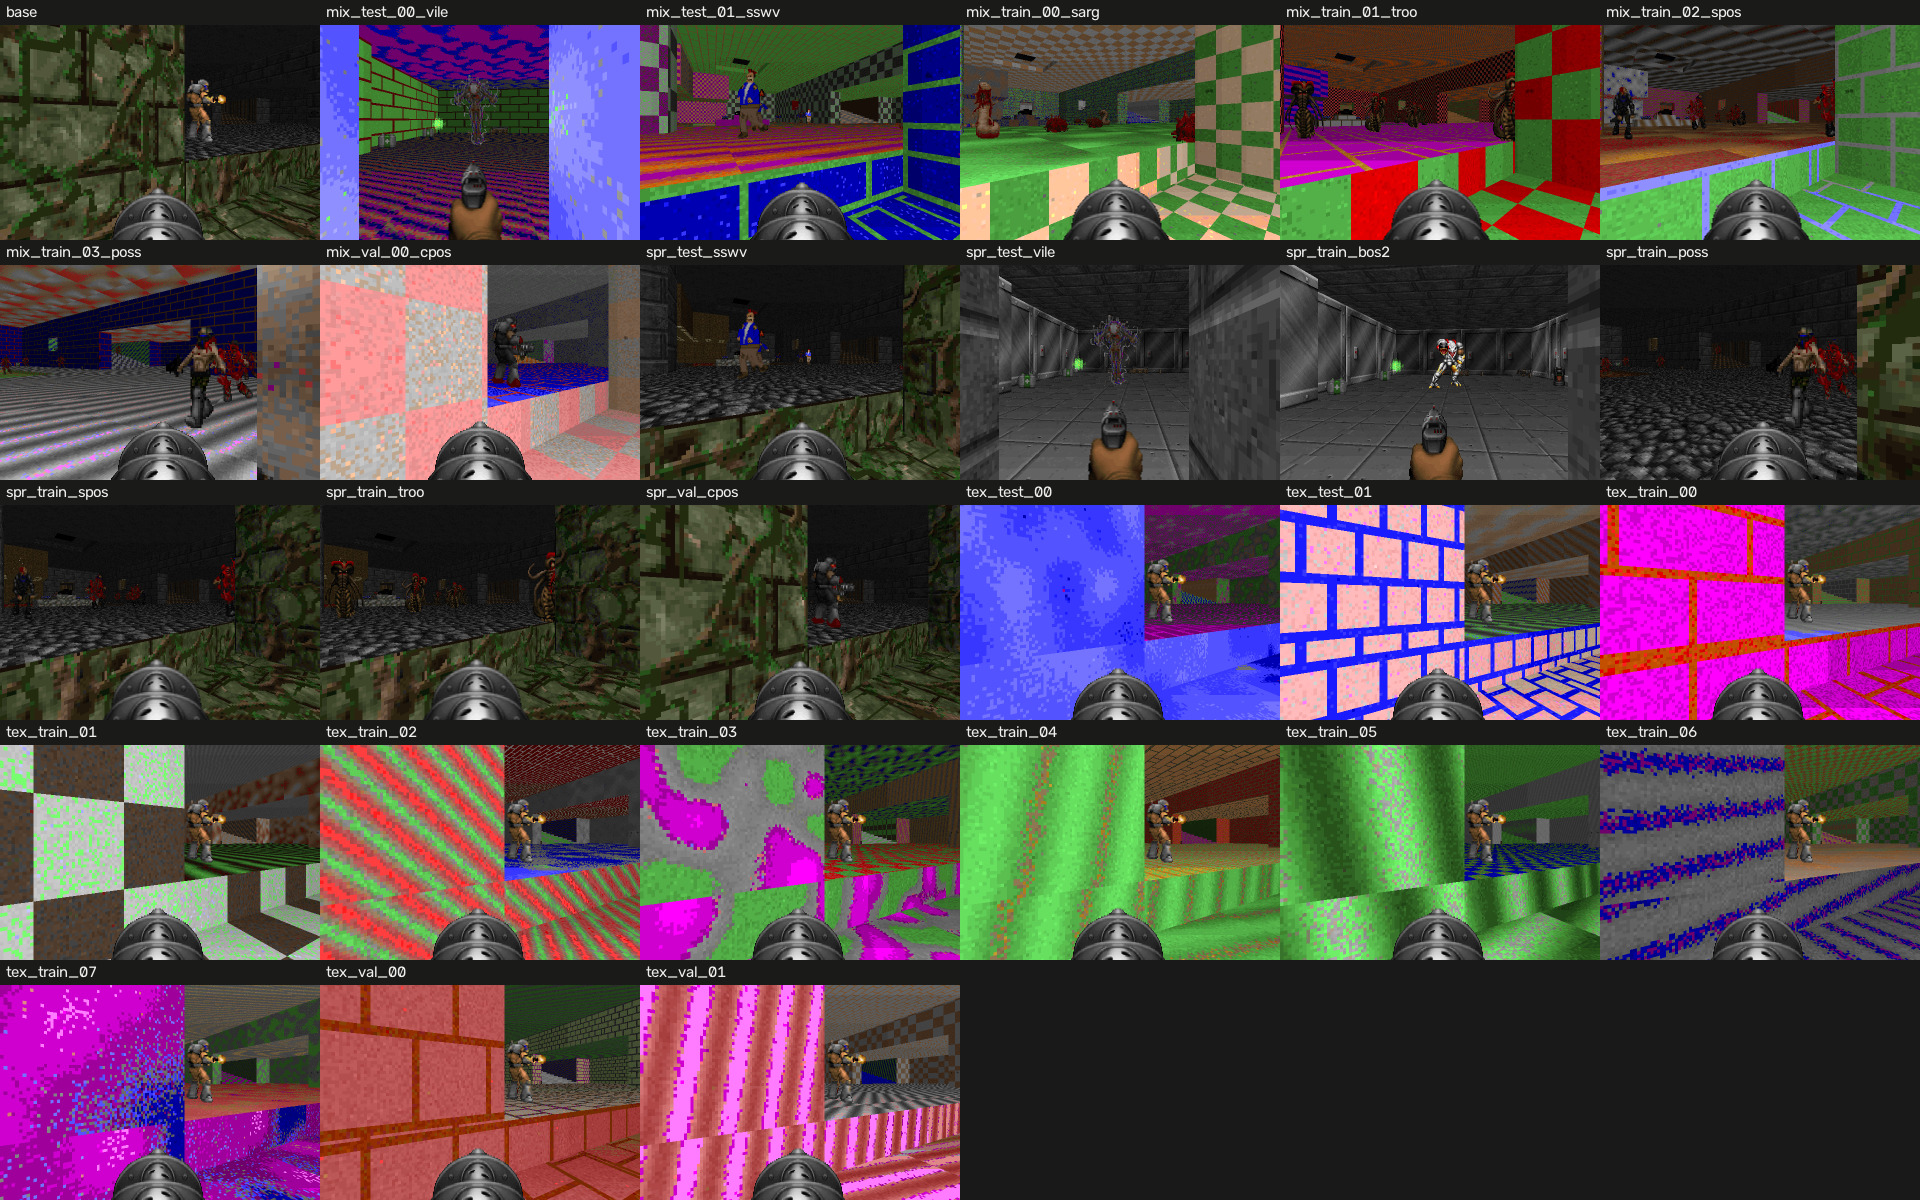
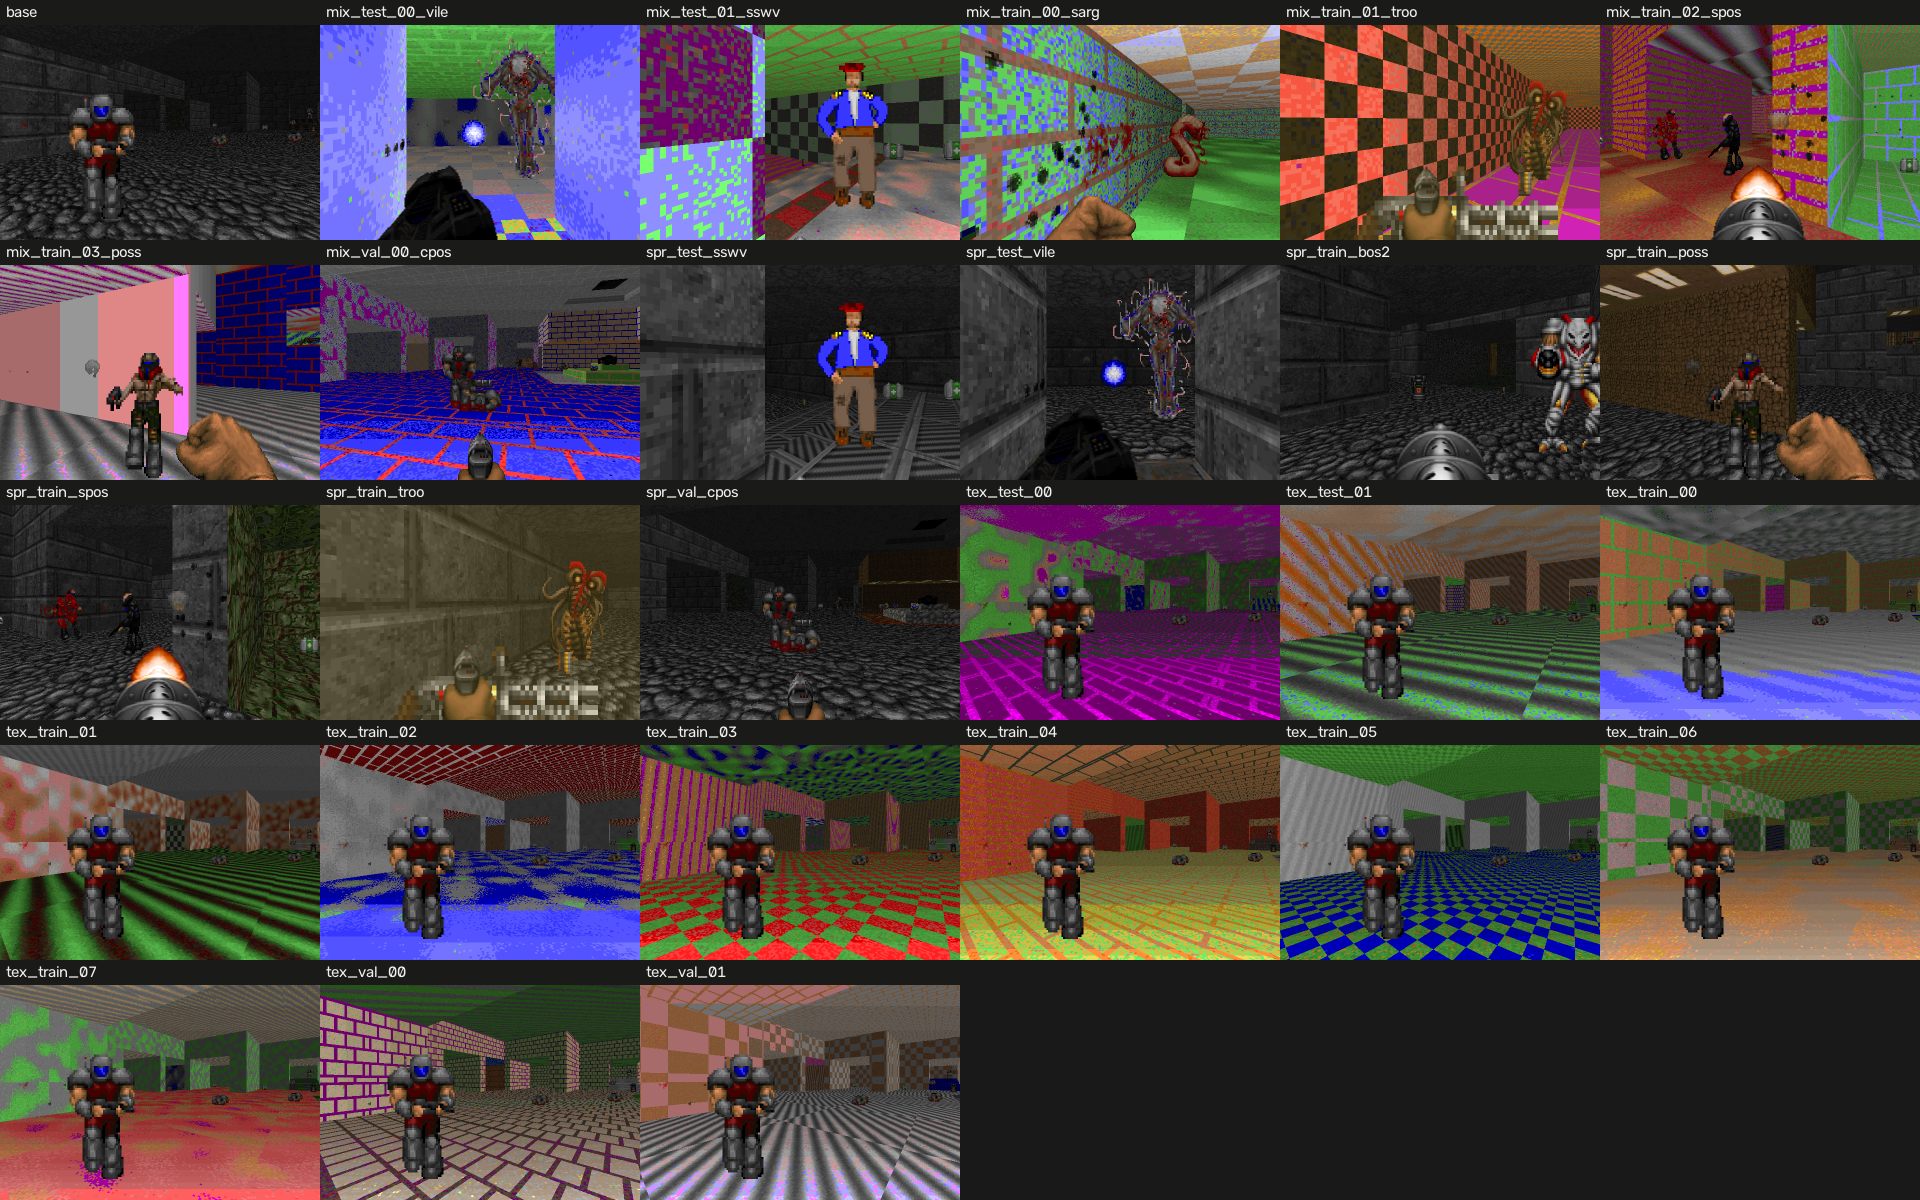
docs(E3): teacher confirmed on untouched seeds (+4.58 [+3.10, +5.88] vs E1), label audit, variants checked again

diff --git a/scripts/dm/dm_dataset_audit.py b/scripts/dm/dm_dataset_audit.py
@@ -1,0 +1,51 @@
+"""Label sanity of recorded teacher matches: fire without a visible bot, steps the teacher stands stuck,
+matches without frags, how often a label is played as is, turn labels with and without a bot in sight.
+
+    python scripts/dm/dm_dataset_audit.py data/dm/r0 data/dm/r1
+"""
+import glob
+import json
+import os
+import sys
+
+import numpy as np
+
+from doomagent.dm.actions import TURN_DEG
+from doomagent.dm.config import MODES
+
+STUCK_WINDOW = 16  # steps (1.8 s)
+STUCK_MOVE = 32.0  # map units over the window
+
+if __name__ == '__main__':
+    sys.stdout.reconfigure(encoding='utf-8')
+    files = sorted(f for d in sys.argv[1:] for f in glob.glob(os.path.join(d, 'ep_*.npz')))
+    n = fire = fire_nobot = stuck = played = 0
+    frags, deaths, turn_bot, turn_nobot, fire_by_mode = [], [], [], [], np.zeros(len(MODES))
+    steps_by_mode = np.zeros(len(MODES))
+    for f in files:
+        z = np.load(f)
+        a, ex, bot, pose, modes = z['actions'], z['executed'], z['bot_visible'], z['pose'], z['modes']
+        T = len(a)
+        n += T
+        fire += a[:, 2].sum()
+        fire_nobot += (a[:, 2].astype(bool) & ~bot).sum()
+        played += (a == ex).all(1).sum()
+        step = np.hypot(np.diff(pose[:, 0]), np.diff(pose[:, 1]))
+        step[step > 60] = 0.0  # a respawn
+        win = np.convolve(step, np.ones(STUCK_WINDOW), 'valid')
+        stuck += int((win < STUCK_MOVE).sum())
+        frags.append(z['counters'][-1, 0])
+        deaths.append(z['counters'][-1, 1])
+        turn_bot += [abs(TURN_DEG[t]) for t in a[bot, 1]]
+        turn_nobot += [abs(TURN_DEG[t]) for t in a[~bot, 1]]
+        np.add.at(fire_by_mode, modes, a[:, 2])
+        np.add.at(steps_by_mode, modes, 1)
+    frags = np.array(frags)
+    out = dict(matches=len(files), steps=n, fire_share=fire / n, fire_without_visible_bot=fire_nobot / max(fire, 1),
+               label_played_as_is=played / n, stuck_window_share=stuck / n,
+               frags=dict(mean=float(frags.mean()), min=float(frags.min()), p10=float(np.percentile(frags, 10)),
+                          zero_matches=int((frags <= 0).sum())),
+               deaths_mean=float(np.mean(deaths)),
+               turn_abs_mean=dict(bot_visible=float(np.mean(turn_bot)), no_bot=float(np.mean(turn_nobot))),
+               fire_share_by_mode={m: float(fire_by_mode[i] / max(steps_by_mode[i], 1)) for i, m in enumerate(MODES)})
+    print(json.dumps(out, indent=1))

diff --git a/scripts/dm/dm_teacher_diag.py b/scripts/dm/dm_teacher_diag.py
@@ -15,7 +15,7 @@ from dataclasses import fields, replace
 
 import numpy as np
 
-from doomagent.dm.config import DM, FRESH_SEEDS, MODES, VAL_SEEDS
+from doomagent.dm.config import CONFIRM_SEEDS, DM, FRESH_SEEDS, MODES, VAL_SEEDS
 from doomagent.dm.teacher import visible_bots
 from doomagent.dm.weapons import WEAPONS
 
@@ -116,7 +116,7 @@ def with_overrides(cfg, items):
 
 if __name__ == '__main__':  # workers re-import this file
     ap = argparse.ArgumentParser()
-    ap.add_argument('--seeds', choices=['val', 'fresh'], default='val')
+    ap.add_argument('--seeds', choices=['val', 'fresh', 'confirm'], default='val')
     ap.add_argument('--matches', type=int, default=20)
     ap.add_argument('--workers', type=int, default=4)
     ap.add_argument('--set', nargs='*', default=[])
@@ -124,7 +124,7 @@ if __name__ == '__main__':  # workers re-import this file
     ap.add_argument('--no-live', action='store_true', help='no frames for the dashboard')
     a = ap.parse_args()
     cfg = with_overrides(DM, a.set)
-    seeds = {'val': VAL_SEEDS, 'fresh': FRESH_SEEDS}[a.seeds][:a.matches]
+    seeds = {'val': VAL_SEEDS, 'fresh': FRESH_SEEDS, 'confirm': CONFIRM_SEEDS}[a.seeds][:a.matches]
     live = not a.no_live
     if live:
         from doomagent.dm.livetap import write_plan

diff --git a/tests/dm/test_dm_config.py b/tests/dm/test_dm_config.py
@@ -30,7 +30,7 @@ def test_map02_names_are_disjoint():
 
 def test_seed_sets_disjoint_and_new():
     new = [D.TRAIN_SEEDS, D.VARIANT_SEEDS, D.DAGGER_SEEDS, D.VAL_SEEDS, D.FRESH_SEEDS,
-           D.CHECK_SEEDS, D.PILOT_SEEDS, D.TEST_SEEDS, D.RL_SEEDS]
+           D.CHECK_SEEDS, D.PILOT_SEEDS, D.TEST_SEEDS, D.RL_SEEDS, D.CONFIRM_SEEDS]
     flat = [s for ss in new for s in ss]
     assert len(flat) == len(set(flat))
     old = set(C.TRAIN_SEEDS + C.TRAIN_SEEDS_EXTRA + C.DAGGER_SEEDS + C.VARIANT_SEEDS + C.VAL_SEEDS

diff --git a/src/doomagent/dm/config.py b/src/doomagent/dm/config.py
@@ -61,6 +61,7 @@ CHECK_SEEDS = tuple(range(37000, 37006))    # graphics variant check
 PILOT_SEEDS = tuple(range(38000, 38010))    # D2 pilot dataset
 TEST_SEEDS = tuple(range(39000, 39040))     # D7 only
 RL_SEEDS = tuple(range(40000, 41000))
+CONFIRM_SEEDS = tuple(range(42000, 42040))  # one look at the teacher after the E3 cycle tuned on FRESH_SEEDS
 
 VAL_OOD_MATCHES = 5   # per val variant
 TEST_OOD_MATCHES = 8  # per test variant

diff --git a/reports/dm/e3_variants.md b/reports/dm/e3_variants.md
@@ -1,35 +1,35 @@
 # E3: graphics variants of cig MAP02
 
-Teacher on CHECK_SEEDS (6 matches per variant). Base: frags 10.50 [8.50, 12.33], K/D 5.25. A variant is switched off below 0.7 of the base frags, or (tex, mix) with a mean network-frame difference from the base below 8 (first 20 steps of a fixed walk).
+Teacher on CHECK_SEEDS (6 matches per variant). Base: frags 14.00 [10.00, 17.67], K/D 3.65. A variant is switched off below 0.7 of the base frags, or (tex, mix) with a mean network-frame difference from the base below 8 (first 20 steps of a fixed walk).
 
 | variant | split | kind | frags [95% CI] | of base | K/D | frame diff | status |
 |---|---|---|---|---|---|---|---|
-| mix_test_00_vile | test | mix | 7.83 [5.33, 10.33] | 0.75 | 2.76 | 46.0 | ok |
-| mix_test_01_sswv | test | mix | 9.50 [7.50, 11.33] | 0.90 | 5.18 | 42.3 | ok |
-| mix_train_00_sarg | train | mix | 10.17 [8.00, 12.33] | 0.97 | 4.69 | 48.7 | ok |
-| mix_train_01_troo | train | mix | 8.67 [6.17, 11.34] | 0.83 | 4.33 | 41.5 | ok |
-| mix_train_02_spos | train | mix | 8.67 [6.83, 10.50] | 0.83 | 3.25 | 38.5 | ok |
-| mix_train_03_poss | train | mix | 9.33 [8.00, 10.83] | 0.89 | 3.73 | 34.4 | ok |
-| mix_val_00_cpos | val | mix | 9.33 [7.83, 10.67] | 0.89 | 3.50 | 47.6 | ok |
-| spr_test_sswv | test | spr | 9.50 [7.50, 11.33] | 0.90 | 5.18 | 0.1 | ok |
-| spr_test_vile | test | spr | 7.83 [5.33, 10.33] | 0.75 | 2.76 | 0.3 | ok |
-| spr_train_bos2 | train | spr | 9.67 [7.83, 11.67] | 0.92 | 4.46 | 0.2 | ok |
-| spr_train_poss | train | spr | 9.33 [8.00, 10.83] | 0.89 | 3.73 | 0.1 | ok |
-| spr_train_spos | train | spr | 8.67 [6.83, 10.50] | 0.83 | 3.25 | 0.1 | ok |
-| spr_train_troo | train | spr | 8.67 [6.17, 11.34] | 0.83 | 4.33 | 0.1 | ok |
-| spr_val_cpos | val | spr | 9.33 [7.83, 10.67] | 0.89 | 3.50 | 0.1 | ok |
-| tex_test_00 | test | tex | 10.50 [8.50, 12.33] | 1.00 | 5.25 | 59.8 | ok |
-| tex_test_01 | test | tex | 10.50 [8.50, 12.33] | 1.00 | 5.25 | 45.3 | ok |
-| tex_train_00 | train | tex | 10.50 [8.50, 12.33] | 1.00 | 5.25 | 45.7 | ok |
-| tex_train_01 | train | tex | 10.50 [8.50, 12.33] | 1.00 | 5.25 | 61.2 | ok |
-| tex_train_02 | train | tex | 10.50 [8.50, 12.33] | 1.00 | 5.25 | 51.3 | ok |
-| tex_train_03 | train | tex | 10.50 [8.50, 12.33] | 1.00 | 5.25 | 38.8 | ok |
-| tex_train_04 | train | tex | 10.50 [8.50, 12.33] | 1.00 | 5.25 | 56.6 | ok |
-| tex_train_05 | train | tex | 10.50 [8.50, 12.33] | 1.00 | 5.25 | 59.3 | ok |
-| tex_train_06 | train | tex | 10.50 [8.50, 12.33] | 1.00 | 5.25 | 53.4 | ok |
-| tex_train_07 | train | tex | 10.50 [8.50, 12.33] | 1.00 | 5.25 | 68.1 | ok |
-| tex_val_00 | val | tex | 10.50 [8.50, 12.33] | 1.00 | 5.25 | 59.4 | ok |
-| tex_val_01 | val | tex | 10.50 [8.50, 12.33] | 1.00 | 5.25 | 49.6 | ok |
+| mix_test_00_vile | test | mix | 11.17 [7.83, 14.67] | 0.80 | 3.72 | 46.0 | ok |
+| mix_test_01_sswv | test | mix | 14.17 [11.83, 16.84] | 1.01 | 3.86 | 42.3 | ok |
+| mix_train_00_sarg | train | mix | 16.17 [13.00, 19.33] | 1.15 | 5.11 | 48.7 | ok |
+| mix_train_01_troo | train | mix | 17.17 [13.66, 21.17] | 1.23 | 4.48 | 41.5 | ok |
+| mix_train_02_spos | train | mix | 14.00 [9.67, 18.83] | 1.00 | 4.20 | 38.5 | ok |
+| mix_train_03_poss | train | mix | 11.83 [9.67, 14.00] | 0.85 | 3.23 | 34.5 | ok |
+| mix_val_00_cpos | val | mix | 10.00 [7.50, 13.17] | 0.71 | 2.61 | 47.6 | ok |
+| spr_test_sswv | test | spr | 14.17 [11.83, 16.84] | 1.01 | 3.86 | 0.1 | ok |
+| spr_test_vile | test | spr | 11.17 [7.83, 14.67] | 0.80 | 3.72 | 0.3 | ok |
+| spr_train_bos2 | train | spr | 11.50 [6.83, 16.17] | 0.82 | 3.29 | 0.2 | ok |
+| spr_train_poss | train | spr | 11.83 [9.67, 14.00] | 0.85 | 3.23 | 0.1 | ok |
+| spr_train_spos | train | spr | 14.00 [9.67, 18.83] | 1.00 | 4.20 | 0.1 | ok |
+| spr_train_troo | train | spr | 17.17 [13.66, 21.17] | 1.23 | 4.48 | 0.1 | ok |
+| spr_val_cpos | val | spr | 10.00 [7.50, 13.17] | 0.71 | 2.61 | 0.1 | ok |
+| tex_test_00 | test | tex | 14.00 [10.00, 17.67] | 1.00 | 3.65 | 59.8 | ok |
+| tex_test_01 | test | tex | 14.00 [10.00, 17.67] | 1.00 | 3.65 | 45.3 | ok |
+| tex_train_00 | train | tex | 14.00 [10.00, 17.67] | 1.00 | 3.65 | 45.7 | ok |
+| tex_train_01 | train | tex | 14.00 [10.00, 17.67] | 1.00 | 3.65 | 61.2 | ok |
+| tex_train_02 | train | tex | 14.00 [10.00, 17.67] | 1.00 | 3.65 | 51.3 | ok |
+| tex_train_03 | train | tex | 14.00 [10.00, 17.67] | 1.00 | 3.65 | 38.9 | ok |
+| tex_train_04 | train | tex | 14.00 [10.00, 17.67] | 1.00 | 3.65 | 56.6 | ok |
+| tex_train_05 | train | tex | 14.00 [10.00, 17.67] | 1.00 | 3.65 | 59.3 | ok |
+| tex_train_06 | train | tex | 14.00 [10.00, 17.67] | 1.00 | 3.65 | 53.5 | ok |
+| tex_train_07 | train | tex | 14.00 [10.00, 17.67] | 1.00 | 3.65 | 68.1 | ok |
+| tex_val_00 | val | tex | 14.00 [10.00, 17.67] | 1.00 | 3.65 | 59.4 | ok |
+| tex_val_01 | val | tex | 14.00 [10.00, 17.67] | 1.00 | 3.65 | 49.6 | ok |
 
 26 of 26 variants kept.
 

diff --git a/research_log_dm.md b/research_log_dm.md
@@ -139,5 +139,6 @@
   - Данные учителем `min_vis_px=50, flick` (`reports/dm/e3_dataset.md`, `.png`): R0 150 матчей, 157 381 шаг, 11.3 ГБ, учитель 11.44 фрага за матч; R1 96 матчей на 16 train-вариантах, 100 733 шага, 7.2 ГБ, 11.36 фрага; всего 246 матчей, 258 114 шагов, 18.5 ГБ; 10 % шагов — шумовое действие.
   - Метки: **выстрел на 23.8 % шагов** (было 10.4 %), смена оружия 3.5 %; движение — вперёд 43 %, стрейфы по 22 %, стоять 7 %; поворот — «0» 24 %, ±5 и ±10 по 9 %, ±40 по 5 %. Оружие в руках: пулемёт 32 %, пистолет 27 %, плазма 12 %, двустволка 12 %, ракетница 8 %. Режимы: бой 49 %, патруль 20 %, снаряжение 15 %, погоня 12 %. `bot_visible` считает только видимых ботов.
   - Панель (`python -m doomagent.dm.dashboard`): картинки переподключаются после перезапуска сервера; полоса «Запись данных / Проверка учителя» с живым кадром воркера, картой, прогрессом и метриками; карта нейронов прогона.
+  - Проверка качества (после цикла, который 12 раз смотрел на одни и те же FRESH_SEEDS): итоговый учитель против учителя E1 на 40 ни разу не использованных seed (`CONFIRM_SEEDS` 42000–42039, `dm_teacher_diag.py --seeds confirm`): фраги 8.10 → 12.68, **+4.58 [+3.10, +5.88]**; первое из 8: 45 % → 85 %; K/D 3.31 → 3.60 (смертей больше: 2.45 → 3.53); итоговый минус лучший бот +4.38 [+2.95, +5.72] (12.68 против 8.30). Попадания по выстрелам (патроны убыли, счётчик попаданий вырос за 1.5 с): пистолет 0.68 → 0.89, пулемёт 0.73 → 0.85, двустволка 0.79 → 0.91. Доля шагов с выстрелом, где попадание пришлось на тот же шаг, упала (71 % → 43 %, `dm_fire_diag.py`): учитель держит кнопку между выстрелами пистолета, такие шаги без пули. Аудит меток (`dm_dataset_audit.py`): выстрел без видимого бота 0 %, «застрял» 0.09 % шагов, матчей без фрагов нет, выстрел на 48 % шагов боя и 0 % вне боя. Варианты заново проверены новым учителем: 26 из 26 (база 14.00 фрага на CHECK_SEEDS).
 - Решение: варианты и данные готовы для E4. Учитель стал сильнее (12.78 фрага против 7.75 у лучшего бота на свежих seed) и чище (нет реакций на скрытых ботов). Выстрел всё ещё реже движения (24 %), смена оружия редкая (3.5 %) — веса голов/классов в E4.
 - Открытые вопросы: веса голов в E4; Gate A v2.1 для нового учителя пересчитать (`dm_teacher_report.py`) перед E4; старые данные `data/dm/old_noflick_r0` удалить.
